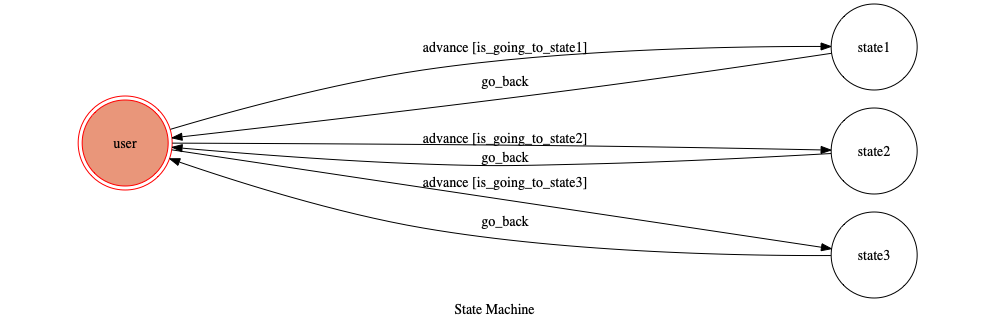
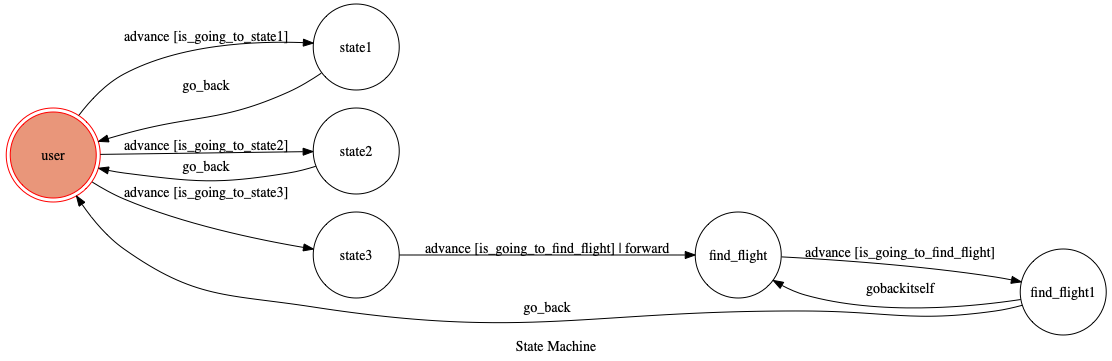
added a state that can search specific flight information by flight number

diff --git a/flights.py b/flights.py
@@ -57,6 +57,27 @@ def format_departure_flight_information(inform):
     formatted+="\n登機門:"+inform['Gate']
 
     return formatted
+def format_specific_flight_information(inform):
+    formatted=""
+    if(inform['DepartureAirportID']=="TPE"):
+        formatted="航班編號:"+inform['AirlineID']+inform['FlightNumber']
+        formatted+="\n出發地:"+inform['DepartureAirportID']
+        formatted+="\n目的地:"+inform['ArrivalAirportID']
+        formatted+="\n預定出發時間:"+inform['ScheduleDepartureTime']
+        formatted+="\n預估出發時間:"+inform['EstimatedDepartureTime']
+        formatted+="\n飛機狀態:"+inform['DepartureRemark']
+        formatted+="\n航廈:"+inform['DepartureTerminal']
+        formatted+="\n登機門:"+inform['DepartureGate']
+    if(inform['ArrivalAirportID']=="TPE"):
+        formatted="航班編號:"+inform['AirlineID']+inform['FlightNumber']
+        formatted+="\n出發地:"+inform['DepartureAirportID']
+        formatted+="\n目的地:"+inform['ArrivalAirportID']
+        formatted+="\n預定抵達時間:"+inform['ScheduleArrivalTime']
+        formatted+="\n預估抵達時間:"+inform['EstimatedArrivalTime']
+        formatted+="\n飛機狀態:"+inform['ArrivalRemark']
+        formatted+="\n航廈:"+inform['ArrivalTerminal']
+        formatted+="\n登機門:"+inform['ArrivalGate']
+    return formatted
 def get_departure_flight_information():
     a = Auth(app_id, app_key)
     current_date=datetime.now().date()
@@ -87,6 +108,21 @@ def get_arrival_flight_information():
         
     return total_information
 
+def get_specific_flight_information(flight_no):
+    a = Auth(app_id, app_key)
+    current_date=datetime.now().date()
+    current_time=datetime.now().time()
+    request_web='https://ptx.transportdata.tw/MOTC/v2/Air/FIDS/Flight/'+str(flight_no)+'?$top=30&$format=JSON'
+    response = request('get', request_web, headers= a.get_auth_header())
+    p=json.loads(response.content)
+    total_information =""
+    for i in range(len(p)):
+        total_information += format_specific_flight_information(p[i])
+        if(i!=len(p)-1):
+            if(not(p[i]['DepartureAirportID']=="TPE" or p[i]['ArrivalAirportID']=="TPE")):
+                continue
+            total_information += "\n\n"
+    return total_information
 """if __name__ == '__main__':
     a = Auth(app_id, app_key)
     response = request('get', 'https://ptx.transportdata.tw/MOTC/v2/Air/FIDS/Airport/Arrival/TPE?$top=10&$format=JSON', headers= a.get_auth_header())

diff --git a/fsm.py b/fsm.py
@@ -1,5 +1,5 @@
 from transitions.extensions import GraphMachine
-from flights import get_arrival_flight_information,get_departure_flight_information
+from flights import get_arrival_flight_information,get_departure_flight_information,get_specific_flight_information
 from requests import request
 from utils import send_text_message,send_location_message
 import json
@@ -24,7 +24,11 @@ class TocMachine(GraphMachine):
     def is_going_to_find_flight(self,event):
         text = event.message.text
         
-        return text.lower()=="1"
+        return True
+    def is_going_to_find_flight1(self,event):
+        text = event.message.text
+        
+        return text.lower()!=""
     def on_enter_state1(self, event):
         print("I'm entering state1")
 
@@ -52,11 +56,11 @@ class TocMachine(GraphMachine):
         print("I'm entering state3")
         
         reply_token = event.reply_token
-        send_text_message(reply_token, "功能製作中")
+        send_text_message(reply_token, "請輸入航班編號\n若想離開此模式請輸入“離開”")
         #send_location_message(reply_token,'my location','台南',22.994821,120.196452)
-        #self.forward(event)
+        self.forward(event)
 
-    def on_exit_state3(self):
+    def on_exit_state3(self,*arg):
         print("Leaving state3")
 
     def on_enter_find_flight(self, event):
@@ -64,9 +68,25 @@ class TocMachine(GraphMachine):
         
         #reply_token = event.reply_token
         #send_text_message(reply_token, event.message.text)
-        print(event.message.text)
+        #print(event.message.text)
         #send_location_message(reply_token,'my location','台南',22.994821,120.196452)
-        #self.is_going_to_find_flight(event)
+        #self.gobackitself(event)
         
     def on_exit_find_flight(self,*arg):
+        print("Leaving find_flight")
+    def on_enter_find_flight1(self, event):
+        print("I'm entering find_flight")
+        
+        if(event.message.text=="離開"):
+            self.go_back()
+        
+        reply_token = event.reply_token
+        #call format
+        #print(get_specific_flight_information(event.message.text))
+        send_text_message(reply_token, get_specific_flight_information(event.message.text))
+        #print(event.message.text)
+        #send_location_message(reply_token,'my location','台南',22.994821,120.196452)
+        self.gobackitself(event)
+        
+    def on_exit_find_flight1(self,*arg):
         print("Leaving find_flight")

diff --git a/utils.py b/utils.py
@@ -18,6 +18,58 @@ def send_location_message(reply_token,title,address,latitude,longitude):
     line_bot_api.reply_message(reply_token,LocationSendMessage(title=title, address=address, latitude=latitude, longitude=longitude))
 
 
+def send_template_message(reply_token):
+    line_bot_api = LineBotApi(channel_access_token)
+    Carousel_template = TemplateSendMessage(
+        alt_text='Carousel template',
+        template=CarouselTemplate(
+        columns=[
+                CarouselColumn(
+                    thumbnail_image_url='顯示在開頭的大圖片網址',
+                    title='this is menu1',
+                    text='description1',
+                    actions=[
+                        PostbackTemplateAction(
+                            label='postback1',
+                            text='postback text1',
+                            data='action=buy&itemid=1'
+                        ),
+                        MessageTemplateAction(
+                            label='message1',
+                            text='message text1'
+                        ),
+                        URITemplateAction(
+                            label='uri1',
+                            uri='http://example.com/1'
+                        )
+                    ]
+                ),
+                CarouselColumn(
+                    thumbnail_image_url='顯示在開頭的大圖片網址',
+                    title='this is menu2',
+                    text='description2',
+                    actions=[
+                        PostbackTemplateAction(
+                            label='postback2',
+                            text='postback text2',
+                            data='action=buy&itemid=2'
+                        ),
+                        MessageTemplateAction(
+                            label='message2',
+                            text='message text2'
+                        ),
+                        URITemplateAction(
+                            label='連結2',
+                            uri='http://example.com/2'
+                        )
+                    ]
+                )
+            ]
+        )
+    )
+
+
+
 """
 def send_image_url(id, img_url):
     pass

diff --git a/app.py b/app.py
@@ -14,7 +14,7 @@ load_dotenv()
 
 
 machine = TocMachine(
-    states=["user", "state1", "state2","state3","find_flight"],
+    states=["user", "state1", "state2","state3","find_flight","find_flight1"],
     transitions=[
         {
             "trigger": "advance",
@@ -35,14 +35,19 @@ machine = TocMachine(
             "conditions": "is_going_to_state3",
         },
         {
-            "trigger": "forward",
+            "trigger": "advance",
             "source": "state3",
             "dest": "find_flight",
             "conditions": "is_going_to_find_flight",
+        },{
+            "trigger": "advance",
+            "source": "find_flight",
+            "dest": "find_flight1",
+            "conditions": "is_going_to_find_flight",
         },
-        {"trigger": "gobackitself", "source": ["find_flight"], "dest": "find_flight"}
-        ,
-        {"trigger": "go_back", "source": ["state1", "state2","state3","find_flight"], "dest": "user"},
+        {"trigger": "gobackitself", "source": ["find_flight1"], "dest": "find_flight"}
+        ,{"trigger": "forward", "source": ["state3"], "dest": "find_flight"}
+        ,{"trigger": "go_back", "source": ["state1", "state2","find_flight1"], "dest": "user"},
     ],
     initial="user",
     auto_transitions=False,
